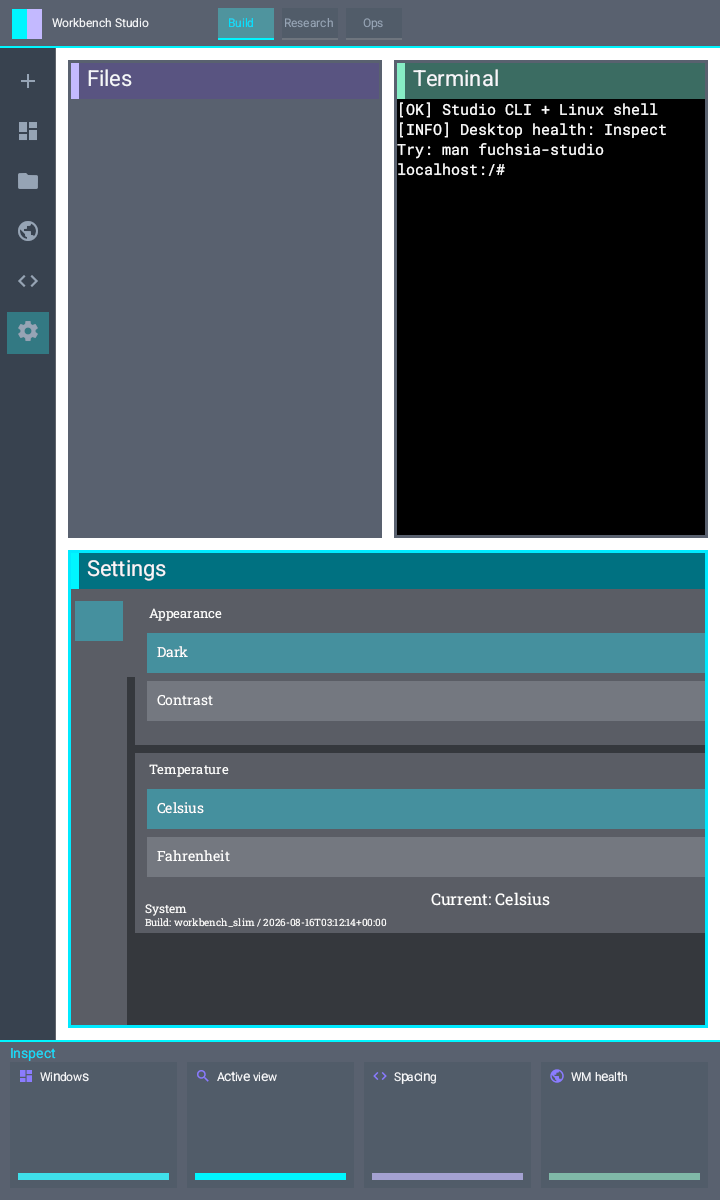
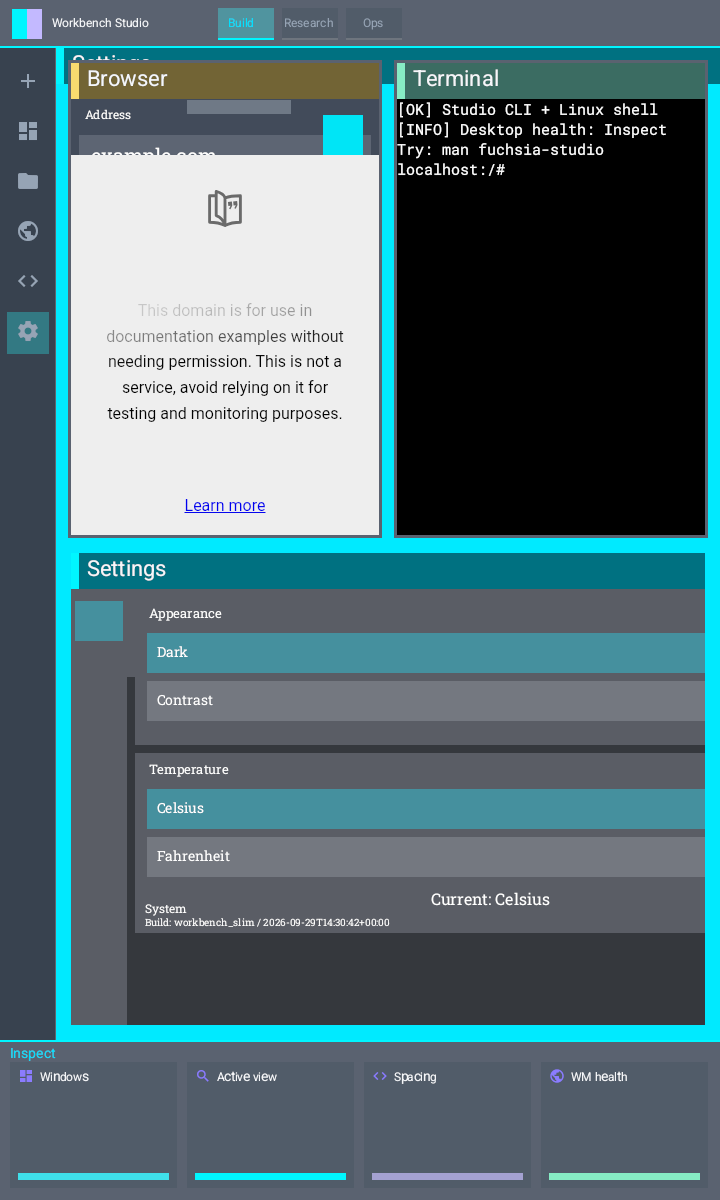
fix: verify Terminal renders in Workbench (#16)
* fix: prove terminal renders in workbench session

Route FlatlandFactory and PTY capabilities through the Workbench session via overlay patches, update studio help contract test, and document the verified three-app FEMU capture. Preserve the earlier input_unchanged=false provenance caveat.

* ci: sync push check with fast-forward head

Changed region(s): [[0.0611, 0.0308, 1.0, 0.8942], [0.7639, 0.9558, 0.9778, 0.9867], [0.4278, 0.74, 0.5194, 0.7708]]

diff --git a/scripts/test-fuchsia-studio-help.py b/scripts/test-fuchsia-studio-help.py
@@ -169,7 +169,6 @@ readme = README.read_text()
 require("design/screenshots/current-femu-run.png", readme)
 require("health `OK`, `tile_count=3`", readme)
 require("instrument-studio-browser,instrument-studio-terminal,instrument-studio-settings", readme)
-require("last_present_context=RemoveTile", readme)
 require("This is not a four-app stage.", readme)
 assert "- Live Inspect: 4 tiles" not in readme
 assert "Remaining gap: Instrument Studio chrome" not in readme
@@ -184,17 +183,14 @@ for phrase in (
     "ffx session add --name instrument-studio-settings fuchsia-pkg://fuchsia.com/fuchsia_settings#meta/fuchsia_settings.cm",
     "ffx session add --name instrument-studio-terminal fuchsia-pkg://fuchsia.com/fuchsia_terminal#meta/fuchsia_terminal.cm",
     "ffx session add --name instrument-studio-browser fuchsia-pkg://fuchsia.com/fuchsia_browser#meta/fuchsia_browser.cm",
-    "ffx session add --name instrument-studio-files fuchsia-pkg://fuchsia.com/fuchsia_files#meta/fuchsia_files.cm",
     'case "$tile_count" in',
     "0)",
-    "4)",
+    "3)",
+    "three-app stage already present; not adding duplicates",
     "unexpected existing tile_count",
     "mkdir -p artifacts/instrument-studio-run",
-    "Expected from the 2026-09-29 run of this procedure: `tiling_wm.tile_count` is 3",
-    "It shows three tiles, not four.",
-    "The wait does not stop at the first count of 3.",
+    "Expected from the 2026-09-30 run: `tiling_wm.tile_count` is 3",
     'test "$order" = "instrument-studio-browser,instrument-studio-terminal,instrument-studio-settings"',
-    "refusing to inspect or screenshot an incomplete stage",
     'test "$stable_three" -ge 3',
 ):
     require(phrase, runbook)

diff --git a/README.md b/README.md
@@ -43,15 +43,15 @@ We are building **Instrument Studio** first:
 
 ### Screenshots
 
-The image below is the screenshot from running the documented FEMU path on 2026-09-29. It is the only run screenshot embedded here.
+The image below is the direct headless FEMU capture from the verified three-app run on 2026-09-30. It is the only current run screenshot embedded here.
 
 ![Current FEMU run](design/screenshots/current-femu-run.png)
 
-Visible pixels: Workbench Studio chrome with Build selected, and three tiles. Headers read Files, Terminal, and Settings. The Files body is empty. Terminal shows the studio help lines. Settings shows Appearance and Temperature. There is no fourth tile and no Browser page.
+The pixels show Browser with its local documentation example, Terminal with a Linux prompt and `fuchsia-studio` help text, and Settings with Appearance and Temperature controls. The Browser example is local content; this screenshot does not prove external network access. The UI displays `2026-09-29`; this on-screen value differs from the capture date and is not used as the screenshot timestamp. Files was not launched or shown.
 
-Inspect for that same run: health `OK`, `tile_count=3`, order `instrument-studio-browser,instrument-studio-terminal,instrument-studio-settings`, `last_present_context=RemoveTile`. The Files component was Running and was not in the tile order. The painted Files header and the Inspect order do not name the same first tile. This is not a four-app stage.
+Inspect for the same run: health `OK`, `tile_count=3`, order `instrument-studio-browser,instrument-studio-terminal,instrument-studio-settings`. The embedded PNG is pixel-identical to the guest capture.
 
-Older captures remain on disk under `design/screenshots/` and `docs/evidence/`. They are not this run, so they are not shown above.
+The previous capture is preserved as `design/screenshots/previous-femu-run-2026-09-29.png`; it is not embedded because its Files header disagreed with its Inspect order. Older evidence remains historical and does not describe this run.
 
 Interactive sketches live under `design/sketches/`.
 
@@ -129,7 +129,7 @@ Expected:
 
 ### 4. Put the desktop on the stage without duplicates
 
-A fresh slim boot can be an empty tiling WM (`tile_count=0`). A reused guest can already have the complete four-app stage. Read Inspect first so rerunning this runbook does not add duplicate windows:
+A fresh slim boot can be an empty tiling WM (`tile_count=0`). A reused guest can already have the verified three-app stage. Read Inspect first so rerunning this runbook does not add duplicate windows. This procedure covers exactly three visible apps; a count of 4 is outside this proof:
 
 ```bash
 wm_tile_count() {
@@ -163,10 +163,9 @@ case "$tile_count" in
     ffx session add --name instrument-studio-settings fuchsia-pkg://fuchsia.com/fuchsia_settings#meta/fuchsia_settings.cm
     ffx session add --name instrument-studio-terminal fuchsia-pkg://fuchsia.com/fuchsia_terminal#meta/fuchsia_terminal.cm
     ffx session add --name instrument-studio-browser fuchsia-pkg://fuchsia.com/fuchsia_browser#meta/fuchsia_browser.cm
-    ffx session add --name instrument-studio-files fuchsia-pkg://fuchsia.com/fuchsia_files#meta/fuchsia_files.cm
     ;;
-  4)
-    echo "four-app stage already present; not adding duplicates"
+  3)
+    echo "three-app stage already present; not adding duplicates"
     ;;
   *)
     echo "unexpected existing tile_count=$tile_count; stop instead of creating a mixed or duplicate stage" >&2
@@ -177,13 +176,13 @@ esac
 stable_three=0
 for attempt in $(seq 1 30); do
   tile_count="$(wm_tile_count)"
-  if [ "$tile_count" -eq 4 ]; then
-    break
-  fi
   if [ "$tile_count" -eq 3 ]; then
     stable_three=$((stable_three + 1))
   else
     stable_three=0
+  fi
+  if [ "$stable_three" -ge 3 ]; then
+    break
   fi
   sleep 2
 done
@@ -214,20 +213,10 @@ print(result)'
 }
 
 order="$(wm_tile_order)"
-case "$tile_count" in
-  4)
-    echo "tile_count=4"
-    ;;
-  3)
-    test "$stable_three" -ge 3
-    test "$order" = "instrument-studio-browser,instrument-studio-terminal,instrument-studio-settings"
-    echo "tile_count=3 order=$order"
-    ;;
-  *)
-    echo "tile wait ended at tile_count=$tile_count; refusing to inspect or screenshot an incomplete stage" >&2
-    exit 1
-    ;;
-esac
+test "$tile_count" -eq 3
+test "$stable_three" -ge 3
+test "$order" = "instrument-studio-browser,instrument-studio-terminal,instrument-studio-settings"
+echo "tile_count=3 order=$order"
 ```
 
 Check the complete window-manager state:
@@ -236,17 +225,17 @@ Check the complete window-manager state:
 ffx --machine json inspect show core/session-manager/session:session/tiling_wm
 ```
 
-Expected from the 2026-09-29 run of this procedure: `tiling_wm.tile_count` is 3, `fuchsia.inspect.Health.status` is `OK`, order is `instrument-studio-browser,instrument-studio-terminal,instrument-studio-settings`, and `last_present_context` is `RemoveTile`. The Files component was Running and was not in that order. A component reporting `Running` is not a tile.
-The wait does not stop at the first count of 3. It continues until the count is 4 or 30 attempts end. It then fails unless the count is 4, or the count is 3, that 3 held for at least three consecutive polls, and the order is exactly `instrument-studio-browser,instrument-studio-terminal,instrument-studio-settings`. A count of 0, 1, or 2 exits before Inspect or screenshot.
+Expected from the 2026-09-30 run: `tiling_wm.tile_count` is 3, `fuchsia.inspect.Health.status` is `OK`, and order is `instrument-studio-browser,instrument-studio-terminal,instrument-studio-settings`. Files was not launched and is not represented in this screenshot. A component reporting `Running` is not a tile.
+The wait requires three consecutive polls at count 3 and the exact order before it proceeds to Inspect or screenshot. Counts 0, 1, 2, or 4 fail this three-app procedure.
 
 Capture pixels. `-d` requires an existing directory inside the tool container, so create its host-mounted counterpart first:
 
 ```bash
 mkdir -p artifacts/instrument-studio-run
-ffx target screenshot -d /workspace/artifacts/instrument-studio-run
+ffx target screenshot -d /workspace/artifacts/instrument-studio-run --format png
 ```
 
-The PNG lands in the lab `artifacts/instrument-studio-run/` directory on the host. The 2026-09-29 capture committed from that command is `design/screenshots/current-femu-run.png`. It shows three tiles, not four.
+FFX writes `screenshot.png` in the lab `artifacts/instrument-studio-run/` directory on the host. The current `design/screenshots/current-femu-run.png` is a pixel-identical copy of the verified three-app capture.
 
 ### 5. Use it as an end user inside Terminal
 
@@ -328,7 +317,7 @@ Never commit those files.
 overlays/fuchsia/     # files to copy onto a Fuchsia checkout
 scripts/              # fetch/apply/verify/secret-scan helpers
 design/sketches/      # HTML UI directions
-design/screenshots/   # current run PNG plus older captures not embedded above
+design/screenshots/   # current verified three-app PNG plus archived captures
 docs/                 # architecture + donor roadmap
 .github/workflows/    # CI
 versions.env          # pins
@@ -358,7 +347,7 @@ See `docs/observability-feedback-loop.md` for the Inspect tree and design checks
 
 ## Linux terminal
 
-Workbench terminal bridges to Alpine/Linux via Starnix and installs a bounded `fuchsia-studio` help, health, and manual command inside the Linux console. See `docs/linux-terminal.md`.
+Workbench terminal bridges to Alpine/Linux via Starnix and installs a bounded `fuchsia-studio` help, health, and manual command inside the Linux console. Its optional PTY use matches the Fuchsia session-manager route availability. The Workbench session routes `FlatlandFactory` only to `terminal_elements`. `scripts/apply-overlays.sh` applies the source-pinned session-manager PTY offer and matching CML golden update. The 2026-09-30 live run above exercised these routes. See `docs/linux-terminal.md`.
 
 ## Production status
 
@@ -366,15 +355,19 @@ See `docs/production-status.md` for an honest done/not-done gate.
 
 ## Live demo evidence
 
-Current run, 2026-09-29, guest `fuchsia-workbench-femu`, product `workbench_slim.x64`:
+Current run, 2026-09-30, guest `fuchsia-workbench-femu`, product `workbench_slim.x64`:
 
-- Reachable: RCS `Y`, guest printed `FUCHSIA_GUEST_OK`.
-- Inspect: health `OK`, `tile_count=3`, order `instrument-studio-browser,instrument-studio-terminal,instrument-studio-settings`, `last_present_context=RemoveTile`.
-- Files component was `Running` and was not in the tile order.
-- Screenshot: `design/screenshots/current-femu-run.png`. Proof: `docs/evidence/instrument-studio-run-20260929T122200Z/`.
+- Source: Fuchsia pin `85d1818a43cb152bf09a0a58ac571012f6ead5e7`; SDK `33.20260816.0.1`.
[1 lines of base64/hex data omitted]
+- Reachable: Product state, RCS `Y`, guest printed `FUCHSIA_GUEST_OK`.
+- Packages resolved from the embedded bundle; no development repository was registered on the final guest.
+- Visible apps: Settings, Terminal, and Browser. Files was not launched or shown.
+- Inspect: Health `OK`, `tile_count=3`, order `instrument-studio-browser,instrument-studio-terminal,instrument-studio-settings`.
[1 lines of base64/hex data omitted]
+- Provenance limit: the Fuchsia checkout contained local overlay changes, and the earlier build receipt reported `input_unchanged=false`. This run makes no clean-tree provenance claim.
 
-Older directories under `docs/evidence/` are historical. They are not this run.
+The prior 2026-09-29 screenshot is archived as `design/screenshots/previous-femu-run-2026-09-29.png`; it is historical, not proof for this run.
 
 ## Status
 
-The interactive tiling WM, Instrument Studio shell chrome, readable typography, semantic icons, and Linux help surface are visible in the current FEMU screenshot. That screenshot is not a four-app stage. The remaining release work includes a presented Files tile that matches Inspect, and the restart-only NativeTheme control plane, which is still a separate draft change and is not implied by this run.
+This is not a four-app stage. The current FEMU screenshot proves three visible app surfaces and the Linux help surface. It does not prove a fourth tile, Files presentation, or external Browser connectivity. The restart-only NativeTheme control plane remains a separate draft change and is not implied by this run.
